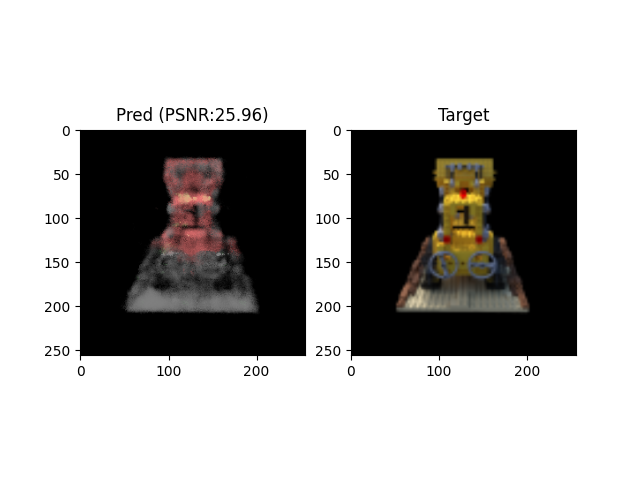
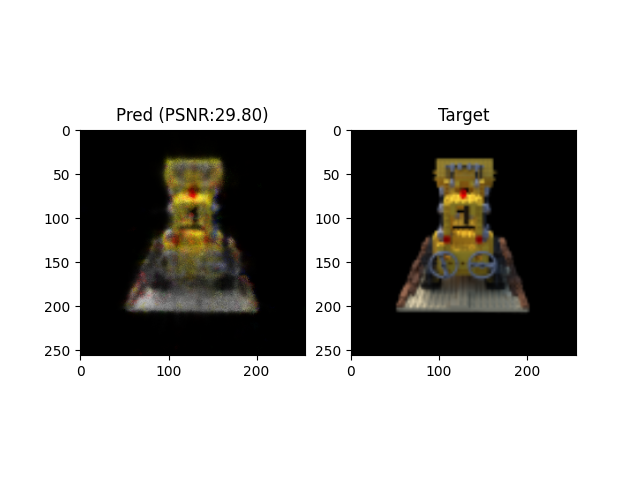
init

Changed region(s): [[0.1875, 0.3125, 0.375, 0.6562], [0.375, 0.5625, 0.4062, 0.6562], [0.3438, 0.2188, 0.4062, 0.25]]

diff --git a/run_nerf.py b/run_nerf.py
@@ -40,13 +40,13 @@ loss_fn = torch.nn.MSELoss()
 
 intermediate_images = []
 target_images = []
-iterations = 2500
+iterations = 5000
 
 import time
 start = time.time()
-
 for i in range(iterations):
-    img_i = 0  #img_i = np.random.randint(100)
+    #img_i = 0  
+    img_i = np.random.randint(100)
     x, z_vals, target_image, viewdirs = dataset.get_data(img_i)
     encoded_x = x                #encoded_x = embed_fn(x)
     encoded_viewdirs = viewdirs  #encoded_viewdirs = embed_fn(viewdirs)
@@ -72,27 +72,28 @@ for i in range(iterations):
 
 end = time.time()
 
+print('time:', end - start)
 
 #Multiple images
-# fig, axs = plt.subplots(2, 4, figsize=(10, 6))
-# for ax, img in zip(axs[0], target_images):
-#     ax.imshow(img)
-#     ax.set_title('Target')
-#     ax.axis('off')
-# for ax, img in zip(axs[1], intermediate_images):
-#     ax.imshow(img)
-#     ax.set_title('Pred')
-#     ax.axis('off')
-# plt.tight_layout() 
-# plt.show() 
-# plt.savefig('output_multiple.png')
+fig, axs = plt.subplots(2, 4, figsize=(10, 6))
+for ax, img in zip(axs[0], target_images):
+    ax.imshow(img)
+    ax.set_title('Target')
+    ax.axis('off')
+for ax, img in zip(axs[1], intermediate_images):
+    ax.imshow(img)
+    ax.set_title('Pred')
+    ax.axis('off')
+plt.tight_layout() 
+plt.show() 
+plt.savefig('output_multiple.png')
 
 
 # #Interatively train a single image
-fig, (ax2, ax3) = plt.subplots(1, 2)
-ax2.imshow(y_pred.detach().cpu().numpy())
-ax3.imshow(target_image.detach().cpu().numpy())
-ax2.set_title(f"Pred (PSNR:{psnr.item():.2f})")
-ax3.set_title('Target')
-plt.show()
-plt.savefig('output_single.png')
+# fig, (ax2, ax3) = plt.subplots(1, 2)
+# ax2.imshow(y_pred.detach().cpu().numpy())
+# ax3.imshow(target_image.detach().cpu().numpy())
+# ax2.set_title(f"Pred (PSNR:{psnr.item():.2f})")
+# ax3.set_title('Target')
+# plt.show()
+# plt.savefig('output_single.png')
